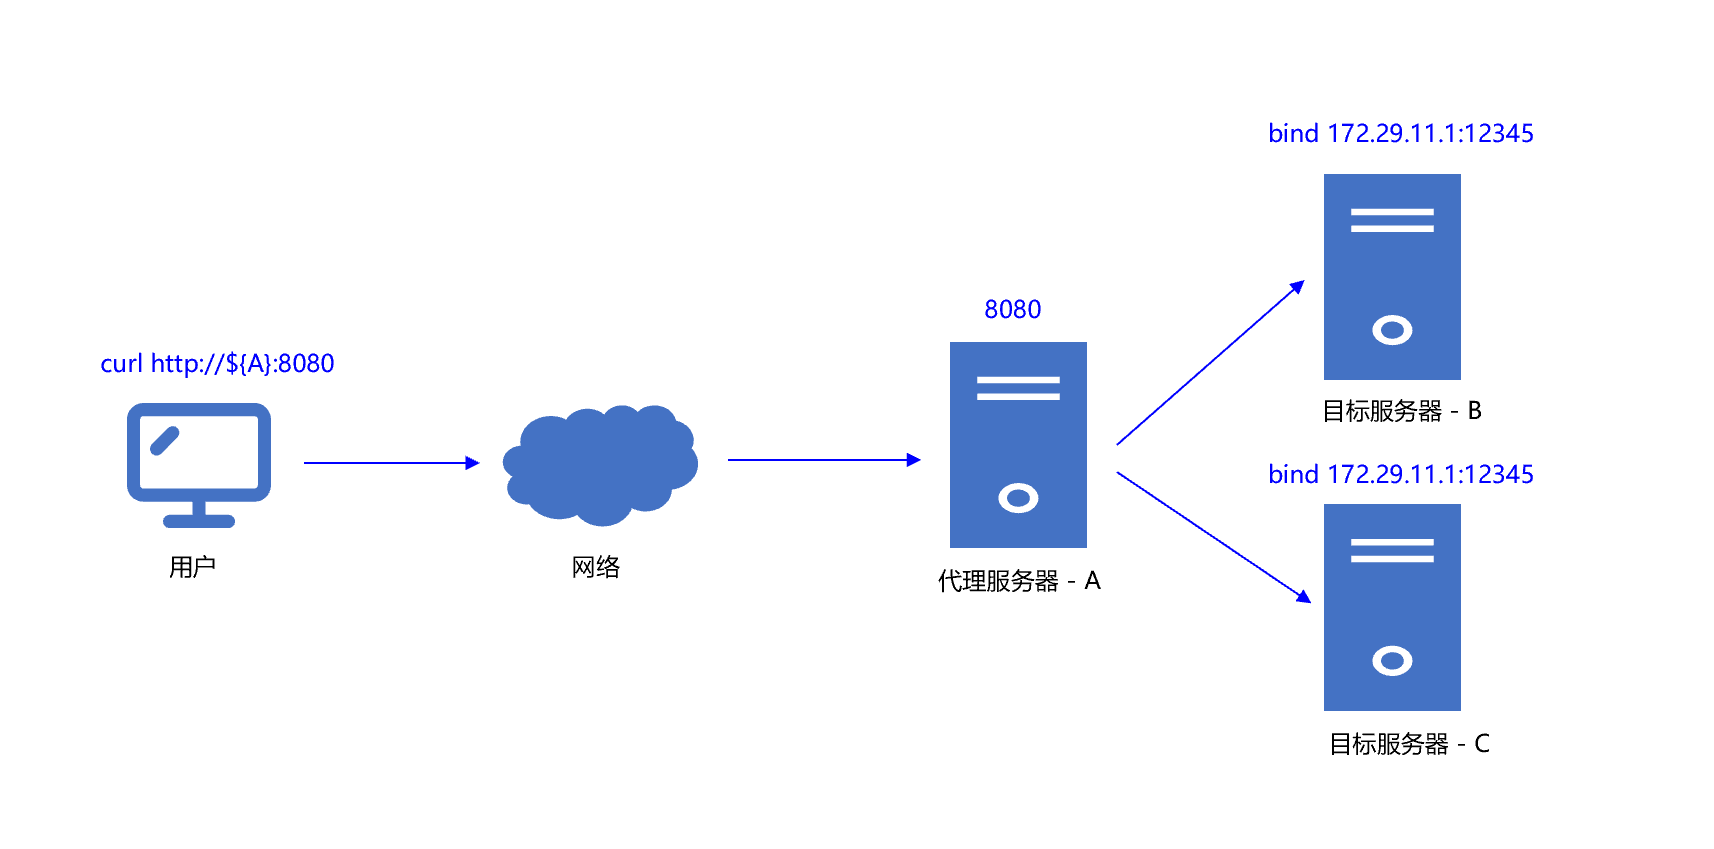
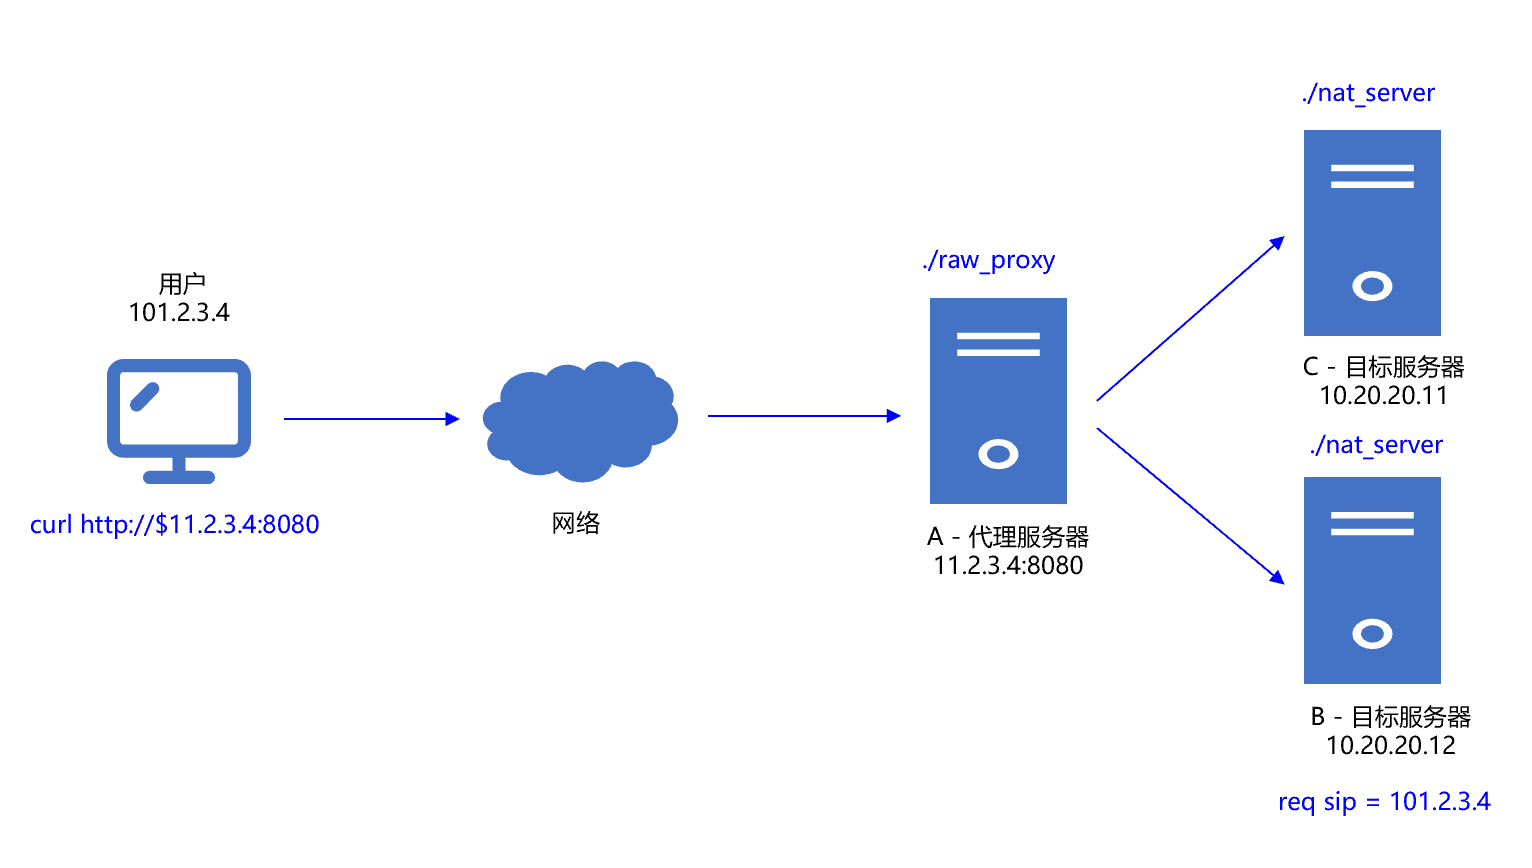
feat: add yaml config

diff --git a/nat_server/main.cc b/nat_server/main.cc
@@ -1,49 +1,57 @@
+/**
+ * Copyright (c) 1998-2020 TENCENT Inc. All rights reserved.
+ *
+ * @file main.cc
+ * @date 2022-08-06
+ *
+ * @brief NAT端口转换服务
+ */
+#include "packet_forwarder.h"
 #include <getopt.h>
 #include <libgen.h>
 #include <stdio.h>
 #include <stdlib.h>
-#include "packet_forwarder.h"
 
-static void Usage(char* prog) {
-    printf("Usage: %s [OPTION]\n", prog);
-    printf("  -h, --host=127.0.0.1\t\t\tListen ip\n");
-    printf("  -p, --port=62000\t\t\tListen port\n");
-    exit(0);
+static void Usage(char *prog) {
+  printf("Usage: %s [OPTION]\n", prog);
+  printf("  -h, --host=0.0.0.0\t\t\tListen ip\n");
+  printf("  -p, --port=62000\t\t\tListen port\n");
+  exit(0);
 }
 
 ///
-int main(int argc, char* argv[]) {
-    struct option long_options[] = {{"host", required_argument, 0, 'h'},
-                                    {"port", required_argument, 0, 'p'},
-                                    {"help", no_argument, 0, 'v'}};
+int main(int argc, char *argv[]) {
+  struct option long_options[] = {{"host", required_argument, 0, 'h'},
+                                  {"port", required_argument, 0, 'p'},
+                                  {"help", no_argument, 0, 'v'}};
 
-    char        opt;
-    std::string listen_ip;
-    int         listen_port = 0;
+  char opt;
+  std::string listen_ip;
+  int listen_port = 0;
 
-    while (-1 !=
-           (opt = getopt_long(argc, argv, "h:p:v", long_options, nullptr))) {
-        switch (opt) {
-            case 'h':
-                listen_ip = optarg;
-                break;
-            case 'p':
-                listen_port = atoi(optarg);
-                break;
-            case 'v':
-                Usage(basename(argv[0]));
-                break;
-            default:
-                Usage(basename(argv[0]));
-                return 1;
-        }
+  while (-1 !=
+         (opt = getopt_long(argc, argv, "h:p:v", long_options, nullptr))) {
+    switch (opt) {
+    case 'h':
+      listen_ip = optarg;
+      break;
+    case 'p':
+      listen_port = atoi(optarg);
+      break;
+    case 'v':
+      Usage(basename(argv[0]));
+      break;
+    default:
+      Usage(basename(argv[0]));
+      return 1;
     }
+  }
 
-    fprintf(stdout, "Started nat server\n");
+  fprintf(stdout, "Started nat server\n");
 
-    NatServer server(listen_ip, listen_port);
-    server.Init();
-    server.Run();
+  NatServer server(listen_ip, listen_port);
+  server.Init();
+  server.Run();
 
-    return 0;
+  return 0;
 }

diff --git a/raw_proxy/packet_proxy.cc b/raw_proxy/packet_proxy.cc
@@ -26,6 +26,7 @@
 
 #include <pcap.h>
 #include <thread>
+#include <yaml-cpp/yaml.h>
 
 using namespace std;
 
@@ -35,12 +36,7 @@ void GetPacket(u_char *arg, const struct pcap_pkthdr *pkthdr,
   pThis->HandleFrame((char *)packet, pkthdr->len);
 }
 
-CPktProxy::CPktProxy(const std::string &eth, int dstport,
-                     const std::string &peer_ip, int peer_port,
-                     const std::string &honey_ip, int honey_port)
-    : eth_(std::move(eth)), dstport_(dstport), peer_ip_(peer_ip),
-      peer_port_(peer_port), honey_ip_(std::move(honey_ip)),
-      honey_port_(honey_port) {}
+CPktProxy::CPktProxy(const string &dir) : dir_(std::move(dir)) {}
 
 CPktProxy::~CPktProxy() {
   if (packet_info_) {
@@ -50,6 +46,17 @@ CPktProxy::~CPktProxy() {
 }
 
 bool CPktProxy::Init() {
+  string path = dir_ + "/conf/app.yaml";
+  printf("config path: %s\n", path.c_str());
+  auto config = YAML::LoadFile(path);
+
+  eth_ = config["Eth"].as<string>();
+  dstport_ = config["Port"].as<int>();
+  peer_ip_ = config["NatServer"].as<string>();
+  peer_port_ = config["NatPort"].as<int>();
+  honey_ip_ = config["RealServer"].as<string>();
+  honey_port_ = config["RealPort"].as<int>();
+
   udp_forward_sock_ = socket(AF_INET, SOCK_DGRAM, 0);
   if (udp_forward_sock_ < 0) {
     printf("Create send udp socket failed, %s", strerror(errno));

diff --git a/raw_proxy/packet_proxy.h b/raw_proxy/packet_proxy.h
@@ -18,8 +18,7 @@
 
 class CPktProxy {
 public:
-  CPktProxy(const std::string &eth, int port, const std::string &peer_ip,
-            int peer_port, const std::string &honey_ip, int honey_port);
+  CPktProxy(const std::string &dir);
   ~CPktProxy();
 
   bool Init();
@@ -40,6 +39,7 @@ private:
   std::string eth_;
   int dstport_;
 
+  std::string dir_; // 工作目录
   int udp_forward_sock_ = 0;
   sockaddr_in addr_srv_;
   std::string peer_ip_;

diff --git a/raw_proxy/main.cc b/raw_proxy/main.cc
@@ -1,0 +1,22 @@
+/**
+ * Copyright (c) 1998-2020 Github Inc. All rights reserved.
+ *
+ * @file main.cc
+ * @author spkettas
+ * @date 2022-05-01
+ *
+ * @brief 服务引流测试工具
+ */
+#include "packet_proxy.h"
+#include <getopt.h>
+#include <libgen.h>
+#include <stdio.h>
+
+/// main
+int main(int argc, char **argv) {
+  CPktProxy pkt_tool(dirname(argv[0]));
+  pkt_tool.Init();
+  pkt_tool.Run();
+
+  return 0;
+}

diff --git a/nat_server/address_rewriter.h b/nat_server/address_rewriter.h
@@ -8,7 +8,6 @@
 #include <mutex>
 #include <unordered_map>
 
-
 struct AddressPair {
   AddressPair(uint32_t src_ip, uint32_t dst_ip, uint16_t src_port,
               uint16_t dst_port)
